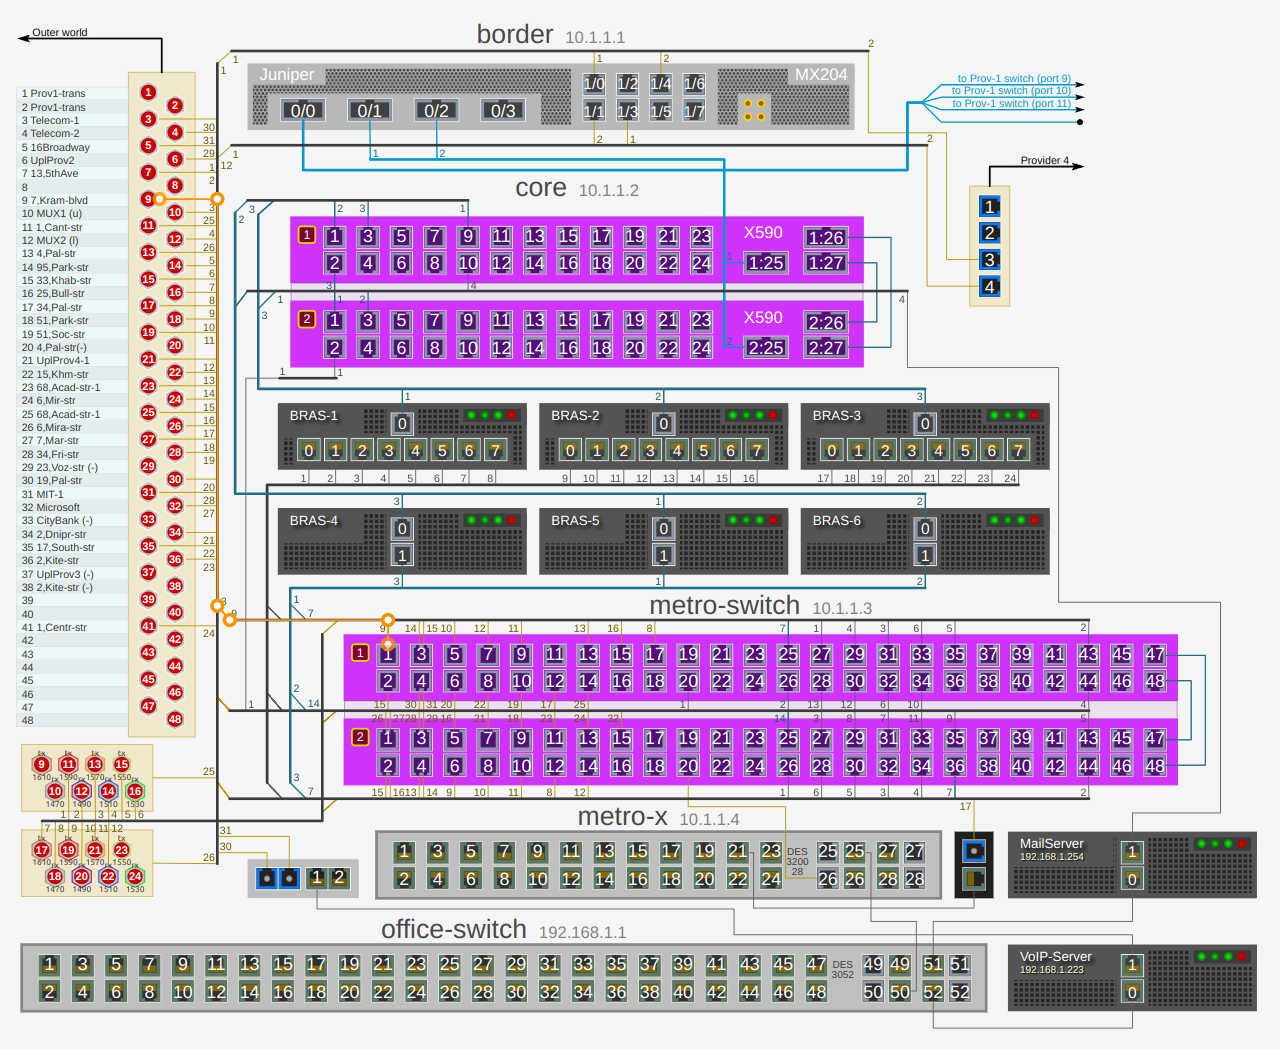
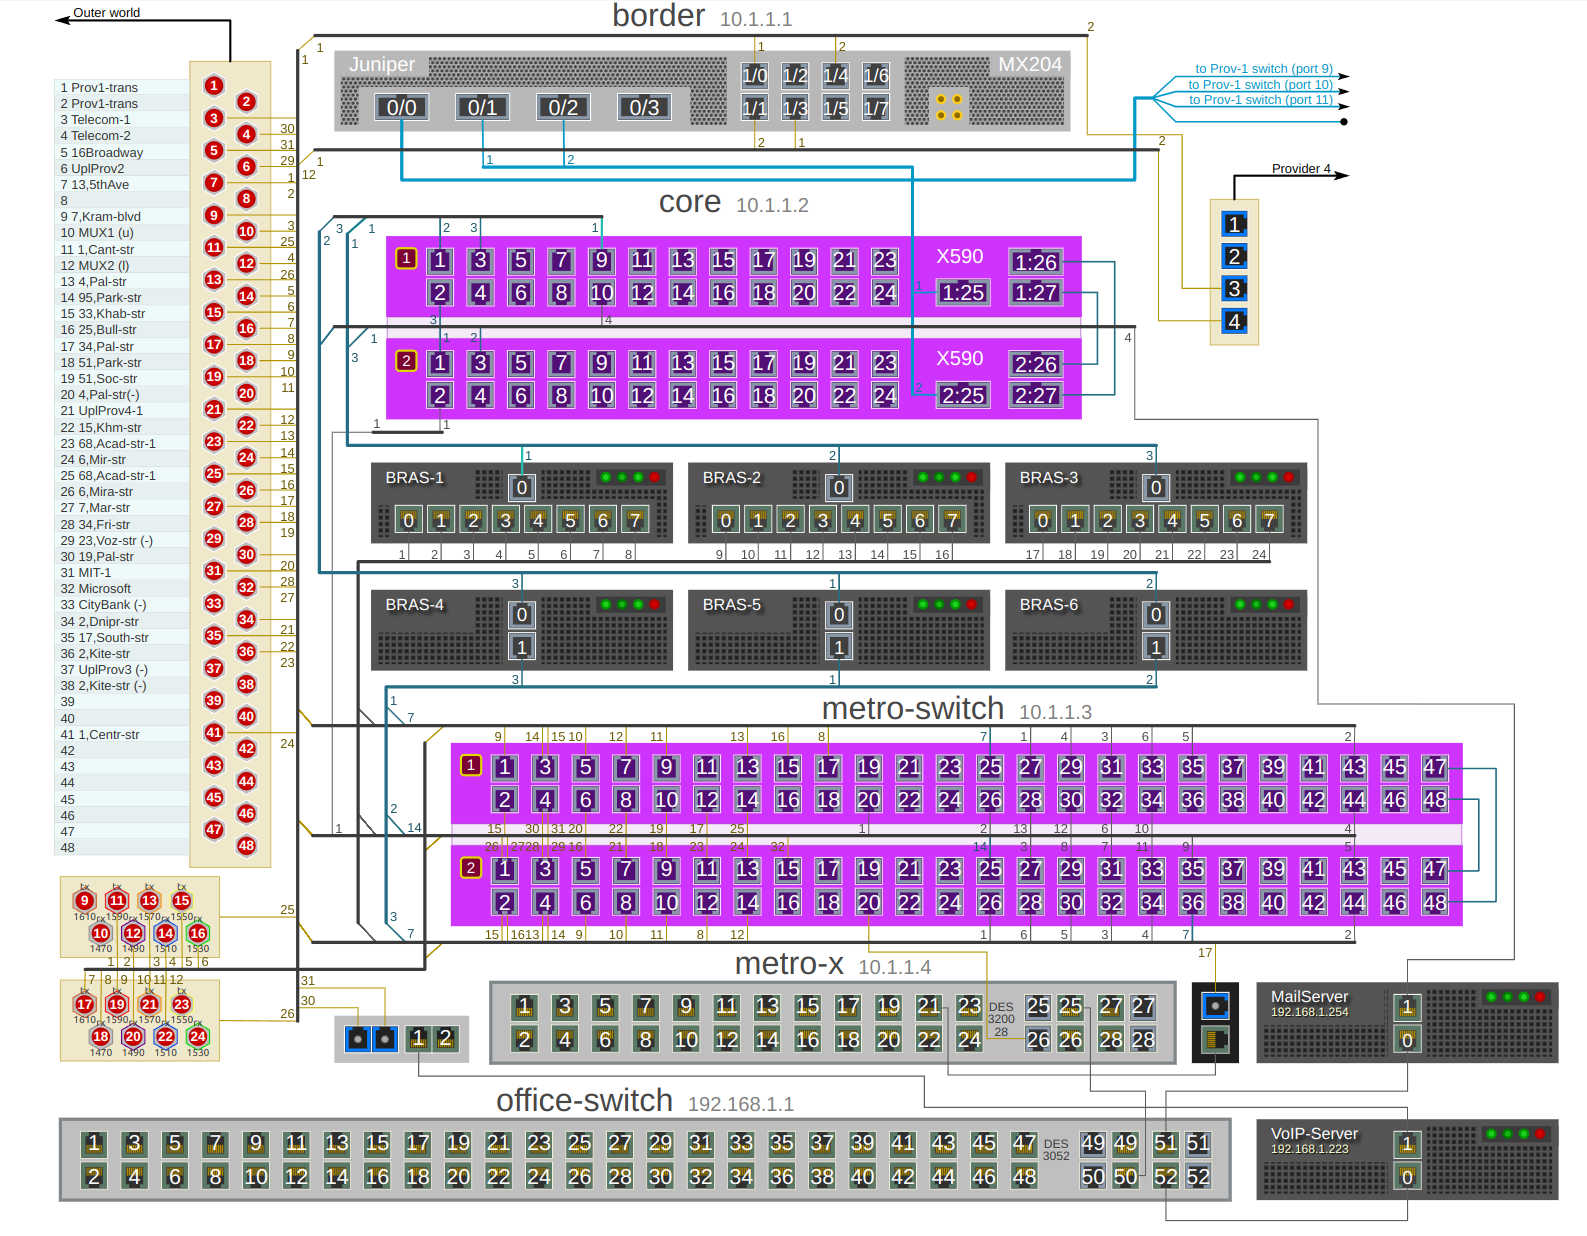
Update drawing background color

diff --git a/packages/kresmer/src/Kresmer.vue b/packages/kresmer/src/Kresmer.vue
@@ -258,7 +258,7 @@
 
 <style lang="scss">
     svg.kresmer {
-        background-color: whitesmoke;
+        background-color: white;
         box-shadow: 0.5rem 0.5rem 0.5rem lightgray;
         outline: thin darkgray dotted;
 

diff --git a/packages/kresmer/README.md b/packages/kresmer/README.md
@@ -1,7 +1,7 @@
 # "Kreslennya Merezh" - network diagram editor and viewer
 ## Core component
 
-![screenshot](./src/assets/screenshot.png)
+![screenshot](./src/assets/screenshot.jpg)
 
 ## Get Started
 
